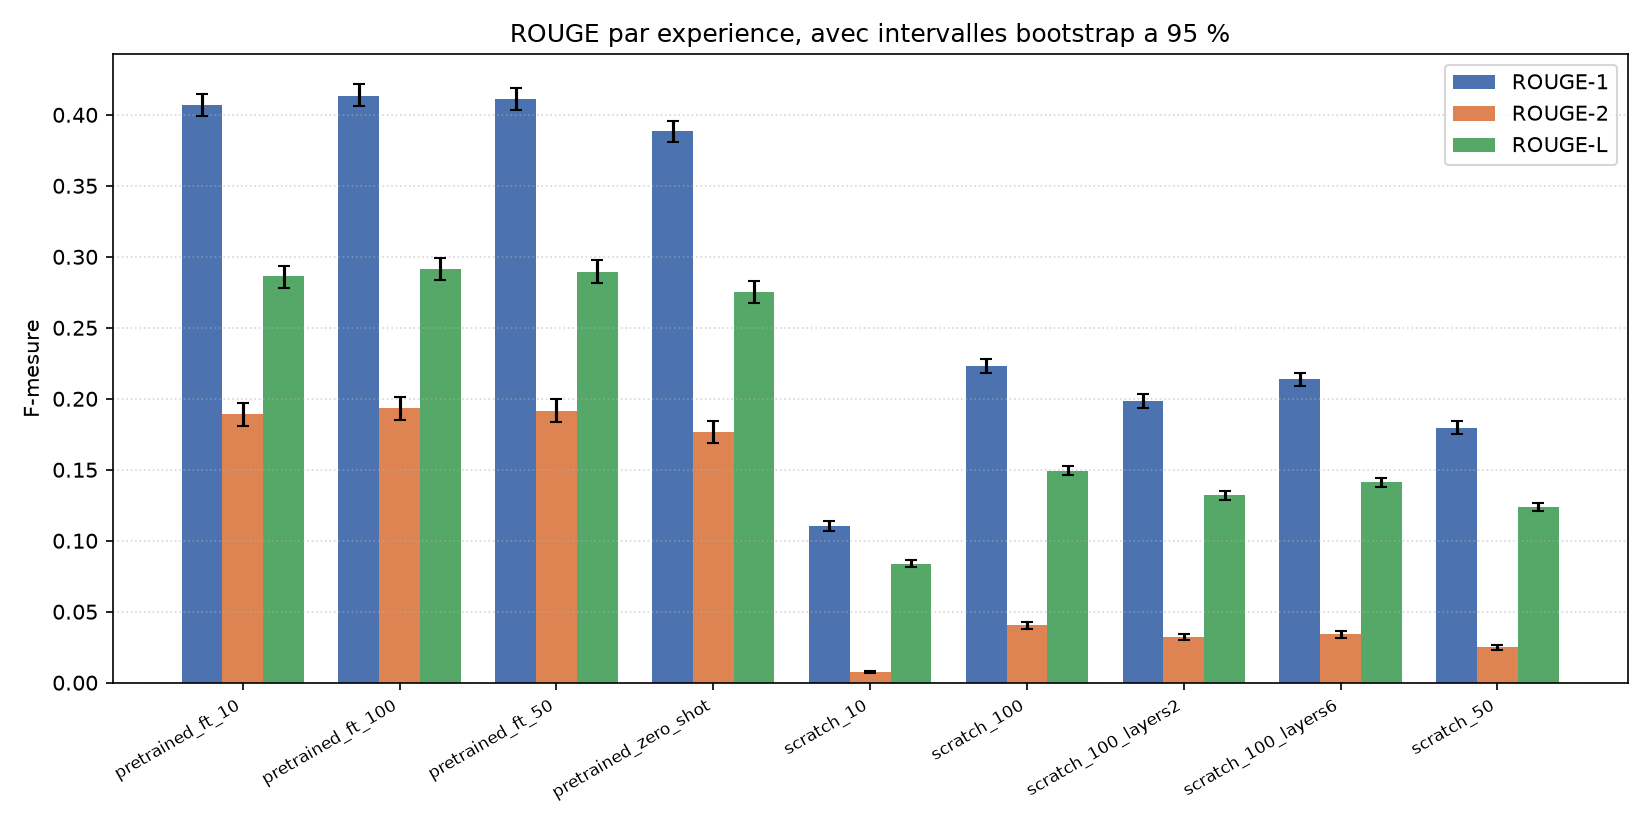
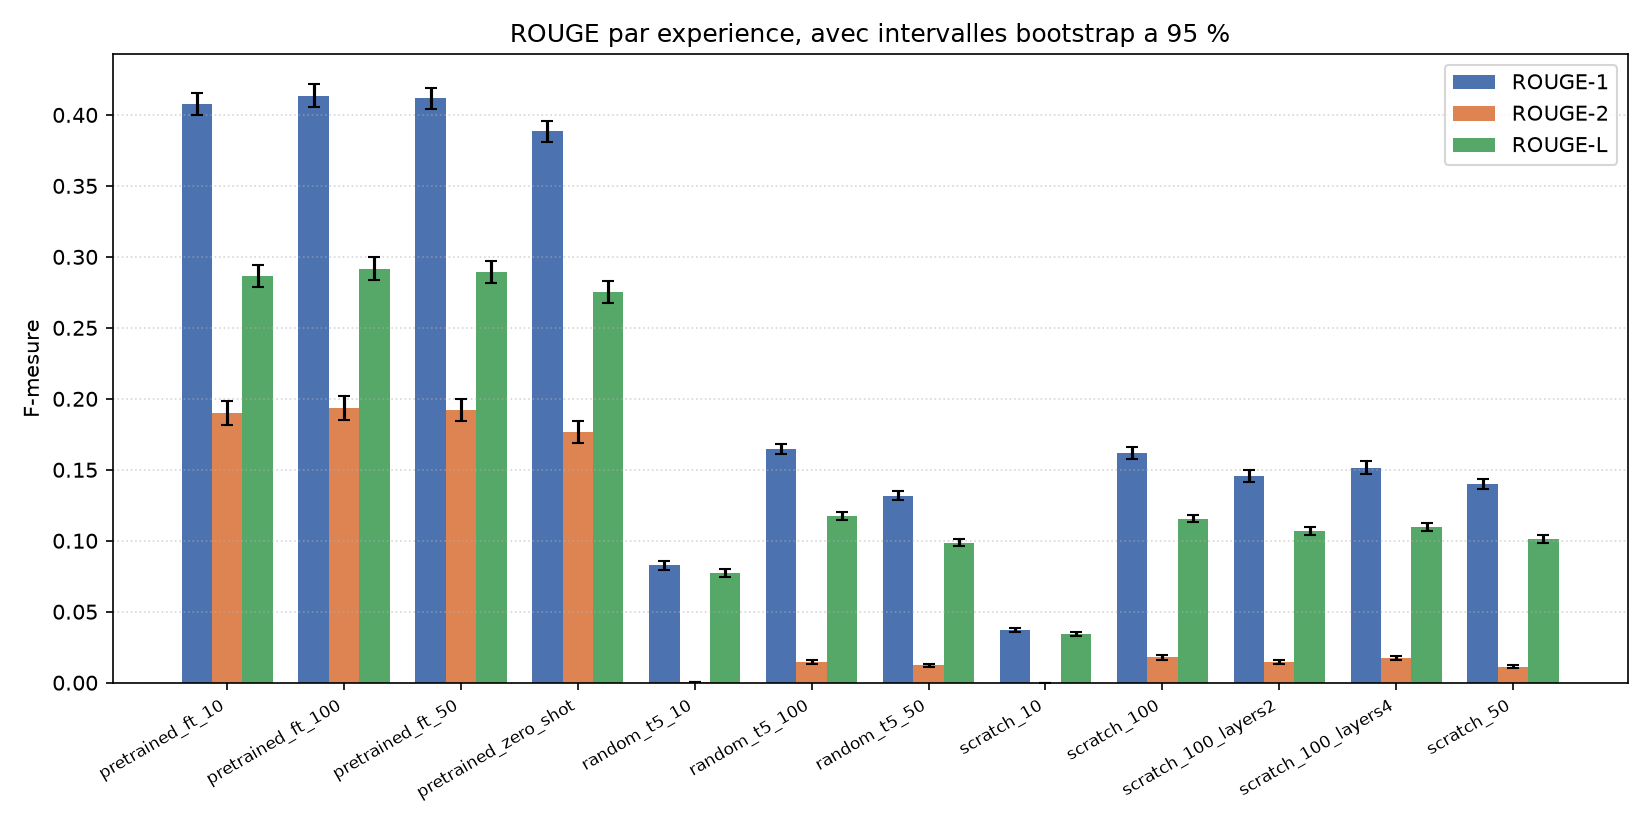
chore(results): enregistrer la campagne complete du 26 aout 2026
Douze runs, tous en statut OK, 151 minutes de calcul cumule sur une RTX
5060 Laptop, empreinte de corpus 00c0ee4e. Les tables generees et les
quatre figures sont refaites depuis ces enregistrements; les runs eux
memes restent hors du depot, comme le prevoit .gitignore.

Resultat: t5-small fine-tune sur 100 pour cent atteint 0,2915 de ROUGE-L,
le zero-shot 0,2751 sans aucun entrainement, et les deux familles parties
de zero plafonnent a 0,1172, intervalles disjoints entre les deux blocs.
A 50 et 100 pour cent, random_t5 et le Transformer ecrit a la main ne se
distinguent pas: l'ecart des fine-tunes tient donc aux poids.

initialisation.md est le tableau nouveau, celui qui compare random_t5 a
pretrained_ft a initialisation pres.

Les enregistrements portent le commit f872aad avec git_dirty a true: ils
ont ete produits par l'arbre de travail que les commits precedents
figent, pas par f872aad lui meme.

diff --git a/reports/_generated/plan.md b/reports/_generated/plan.md
@@ -2,12 +2,15 @@
 
 | Expérience | Variante | Corpus | Études | Statut | ROUGE-L |
 | --- | --- | --- | --- | --- | --- |
-| `pretrained_ft_10` | `pretrained_ft` | 10 % | taille du corpus | `OK` | 0,2861 |
-| `pretrained_ft_50` | `pretrained_ft` | 50 % | taille du corpus | `OK` | 0,2896 |
-| `pretrained_ft_100` | `pretrained_ft` | 100 % | taille du corpus | `OK` | 0,2914 |
-| `scratch_10` | `scratch` | 10 % | taille du corpus | `OK` | 0,0837 |
-| `scratch_50` | `scratch` | 50 % | taille du corpus | `OK` | 0,1234 |
-| `scratch_100` | `scratch` | 100 % | taille du corpus, architecture | `OK` | 0,1492 |
-| `scratch_100_layers2` | `scratch` | 100 % | architecture | `OK` | 0,1320 |
-| `scratch_100_layers6` | `scratch` | 100 % | architecture | `OK` | 0,1413 |
+| `pretrained_ft_10` | `pretrained_ft` | 10 % | taille du corpus | `OK` | 0,2867 |
+| `pretrained_ft_50` | `pretrained_ft` | 50 % | taille du corpus | `OK` | 0,2894 |
+| `pretrained_ft_100` | `pretrained_ft` | 100 % | taille du corpus | `OK` | 0,2915 |
+| `random_t5_10` | `random_t5` | 10 % | taille du corpus | `OK` | 0,0771 |
+| `random_t5_50` | `random_t5` | 50 % | taille du corpus | `OK` | 0,0985 |
+| `random_t5_100` | `random_t5` | 100 % | taille du corpus | `OK` | 0,1172 |
+| `scratch_10` | `scratch` | 10 % | taille du corpus | `OK` | 0,0343 |
+| `scratch_50` | `scratch` | 50 % | taille du corpus | `OK` | 0,1014 |
+| `scratch_100` | `scratch` | 100 % | taille du corpus, architecture | `OK` | 0,1156 |
+| `scratch_100_layers2` | `scratch` | 100 % | architecture | `OK` | 0,1067 |
+| `scratch_100_layers4` | `scratch` | 100 % | architecture | `OK` | 0,1095 |
 | `pretrained_zero_shot` | `pretrained_zero_shot` | sans objet | taille du corpus | `OK` | 0,2751 |

diff --git a/reports/_generated/metrics.md b/reports/_generated/metrics.md
@@ -2,12 +2,15 @@
 
 | Expérience | ROUGE-1 | ROUGE-2 | ROUGE-L | IC 95 % sur ROUGE-L |
 | --- | --- | --- | --- | --- |
-| `pretrained_ft_100` | 0,4135 | 0,1933 | **0,2914** | [0,2838, 0,2994] |
-| `pretrained_ft_50` | 0,4114 | 0,1917 | 0,2896 | [0,2818, 0,2975] |
-| `pretrained_ft_10` | 0,4069 | 0,1890 | 0,2861 | [0,2777, 0,2939] |
+| `pretrained_ft_100` | 0,4135 | 0,1933 | **0,2915** | [0,2836, 0,2997] |
+| `pretrained_ft_50` | 0,4118 | 0,1920 | 0,2894 | [0,2818, 0,2973] |
+| `pretrained_ft_10` | 0,4077 | 0,1901 | 0,2867 | [0,2784, 0,2945] |
 | `pretrained_zero_shot` | 0,3885 | 0,1768 | 0,2751 | [0,2672, 0,2829] |
-| `scratch_100` | 0,2230 | 0,0405 | 0,1492 | [0,1462, 0,1523] |
-| `scratch_100_layers6` | 0,2136 | 0,0341 | 0,1413 | [0,1382, 0,1443] |
-| `scratch_100_layers2` | 0,1982 | 0,0321 | 0,1320 | [0,1287, 0,1351] |
-| `scratch_50` | 0,1797 | 0,0251 | 0,1234 | [0,1206, 0,1263] |
-| `scratch_10` | 0,1102 | 0,0076 | 0,0837 | [0,0812, 0,0861] |
+| `random_t5_100` | 0,1645 | 0,0149 | 0,1172 | [0,1145, 0,1200] |
+| `scratch_100` | 0,1615 | 0,0179 | 0,1156 | [0,1129, 0,1184] |
+| `scratch_100_layers4` | 0,1514 | 0,0176 | 0,1095 | [0,1067, 0,1125] |
+| `scratch_100_layers2` | 0,1458 | 0,0149 | 0,1067 | [0,1040, 0,1094] |
+| `scratch_50` | 0,1399 | 0,0112 | 0,1014 | [0,0987, 0,1042] |
+| `random_t5_50` | 0,1318 | 0,0122 | 0,0985 | [0,0961, 0,1011] |
+| `random_t5_10` | 0,0827 | 0,0005 | 0,0771 | [0,0745, 0,0798] |
+| `scratch_10` | 0,0371 | 0,0000 | 0,0343 | [0,0327, 0,0357] |

diff --git a/reports/_generated/dataset_size.md b/reports/_generated/dataset_size.md
@@ -2,10 +2,13 @@
 
 | Variante | Corpus | Exemples | ROUGE-L | IC 95 % |
 | --- | --- | --- | --- | --- |
-| `pretrained_ft` | 10 % | 2 000 | 0,2861 | [0,2777, 0,2939] |
-| `pretrained_ft` | 50 % | 10 000 | 0,2896 | [0,2818, 0,2975] |
-| `pretrained_ft` | 100 % | 20 000 | 0,2914 | [0,2838, 0,2994] |
-| `scratch` | 10 % | 2 000 | 0,0837 | [0,0812, 0,0861] |
-| `scratch` | 50 % | 10 000 | 0,1234 | [0,1206, 0,1263] |
-| `scratch` | 100 % | 20 000 | 0,1492 | [0,1462, 0,1523] |
+| `pretrained_ft` | 10 % | 2 000 | 0,2867 | [0,2784, 0,2945] |
+| `pretrained_ft` | 50 % | 10 000 | 0,2894 | [0,2818, 0,2973] |
+| `pretrained_ft` | 100 % | 20 000 | 0,2915 | [0,2836, 0,2997] |
+| `random_t5` | 10 % | 2 000 | 0,0771 | [0,0745, 0,0798] |
+| `random_t5` | 50 % | 10 000 | 0,0985 | [0,0961, 0,1011] |
+| `random_t5` | 100 % | 20 000 | 0,1172 | [0,1145, 0,1200] |
+| `scratch` | 10 % | 2 000 | 0,0343 | [0,0327, 0,0357] |
+| `scratch` | 50 % | 10 000 | 0,1014 | [0,0987, 0,1042] |
+| `scratch` | 100 % | 20 000 | 0,1156 | [0,1129, 0,1184] |
 | `pretrained_zero_shot` | sans objet | sans objet | 0,2751 | [0,2672, 0,2829] |

diff --git a/reports/_generated/headline.md b/reports/_generated/headline.md
@@ -2,10 +2,13 @@
 
 | Modèle | Corpus | ROUGE-L | IC 95 % |
 | --- | --- | --- | --- |
-| `t5-small` fine-tuné | 100 % | **0,2914** | [0,2838, 0,2994] |
-| `t5-small` fine-tuné | 50 % | 0,2896 | [0,2818, 0,2975] |
-| `t5-small` fine-tuné | 10 % | 0,2861 | [0,2777, 0,2939] |
+| `t5-small` fine-tuné | 100 % | **0,2915** | [0,2836, 0,2997] |
+| `t5-small` fine-tuné | 50 % | 0,2894 | [0,2818, 0,2973] |
+| `t5-small` fine-tuné | 10 % | 0,2867 | [0,2784, 0,2945] |
 | `t5-small` zero-shot | sans objet | 0,2751 | [0,2672, 0,2829] |
-| from scratch | 100 % | 0,1492 | [0,1462, 0,1523] |
-| from scratch | 50 % | 0,1234 | [0,1206, 0,1263] |
-| from scratch | 10 % | 0,0837 | [0,0812, 0,0861] |
+| `t5-small` aléatoire | 100 % | 0,1172 | [0,1145, 0,1200] |
+| Transformer from scratch | 100 % | 0,1156 | [0,1129, 0,1184] |
+| Transformer from scratch | 50 % | 0,1014 | [0,0987, 0,1042] |
+| `t5-small` aléatoire | 50 % | 0,0985 | [0,0961, 0,1011] |
+| `t5-small` aléatoire | 10 % | 0,0771 | [0,0745, 0,0798] |
+| Transformer from scratch | 10 % | 0,0343 | [0,0327, 0,0357] |

diff --git a/reports/_generated/families.md b/reports/_generated/families.md
@@ -1,7 +1,7 @@
 <!-- Généré par python -m src.experiments.fragments. Ne pas éditer à la main. -->
 
-| Proportion | Exemples | from scratch | `t5-small` fine-tuné | Écart absolu | Écart relatif |
+| Proportion | Exemples | Transformer from scratch | `t5-small` fine-tuné | Écart absolu | Écart relatif |
 | --- | --- | --- | --- | --- | --- |
-| 10 % | 2 000 | 0,0837 | 0,2861 | 0,2025 | +242 % |
-| 50 % | 10 000 | 0,1234 | 0,2896 | 0,1662 | +135 % |
-| 100 % | 20 000 | 0,1492 | 0,2914 | 0,1422 | +95 % |
+| 10 % | 2 000 | 0,0343 | 0,2867 | 0,2524 | +736 % |
+| 50 % | 10 000 | 0,1014 | 0,2894 | 0,1880 | +185 % |
+| 100 % | 20 000 | 0,1156 | 0,2915 | 0,1759 | +152 % |

diff --git a/reports/_generated/architecture.md b/reports/_generated/architecture.md
@@ -2,6 +2,6 @@
 
 | Expérience | Couches | Paramètres | ROUGE-L | IC 95 % | Entraînement |
 | --- | --- | --- | --- | --- | --- |
-| `scratch_100_layers2` | 2 + 2 | 11 905 024 | 0,1320 | [0,1287, 0,1351] | 1 052 s |
-| `scratch_100` | 4 + 4 | 15 591 424 | 0,1492 | [0,1462, 0,1523] | 2 106 s |
-| `scratch_100_layers6` | 6 + 6 | 19 277 824 | 0,1413 | [0,1382, 0,1443] | 2 100 s |
+| `scratch_100_layers2` | 2 + 2 | 31 150 080 | 0,1067 | [0,1040, 0,1094] | 441 s |
+| `scratch_100_layers4` | 4 + 4 | 45 862 912 | 0,1095 | [0,1067, 0,1125] | 722 s |
+| `scratch_100` | 6 + 6 | 60 575 744 | 0,1156 | [0,1129, 0,1184] | 900 s |

diff --git a/reports/_generated/pretrained.md b/reports/_generated/pretrained.md
@@ -3,6 +3,6 @@
 | Expérience | Mode | Corpus | ROUGE-L | IC 95 % |
 | --- | --- | --- | --- | --- |
 | `pretrained_zero_shot` | zero-shot | sans objet | 0,2751 | [0,2672, 0,2829] |
-| `pretrained_ft_10` | fine-tuné | 10 % | 0,2861 | [0,2777, 0,2939] |
-| `pretrained_ft_50` | fine-tuné | 50 % | 0,2896 | [0,2818, 0,2975] |
-| `pretrained_ft_100` | fine-tuné | 100 % | 0,2914 | [0,2838, 0,2994] |
+| `pretrained_ft_10` | fine-tuné | 10 % | 0,2867 | [0,2784, 0,2945] |
+| `pretrained_ft_50` | fine-tuné | 50 % | 0,2894 | [0,2818, 0,2973] |
+| `pretrained_ft_100` | fine-tuné | 100 % | 0,2915 | [0,2836, 0,2997] |

diff --git a/reports/_generated/capitalisation.md b/reports/_generated/capitalisation.md
@@ -4,11 +4,14 @@
 | --- | --- |
 | `pretrained_ft_10` | 0,8 % |
 | `pretrained_ft_50` | 0,5 % |
-| `pretrained_ft_100` | 0,3 % |
-| `scratch_10` | 16,6 % |
-| `scratch_50` | 63,4 % |
-| `scratch_100` | 30,0 % |
-| `scratch_100_layers2` | 50,9 % |
-| `scratch_100_layers6` | 13,1 % |
+| `pretrained_ft_100` | 0,2 % |
+| `random_t5_10` | 0,0 % |
+| `random_t5_50` | 0,0 % |
+| `random_t5_100` | 0,1 % |
+| `scratch_10` | 0,0 % |
+| `scratch_50` | 77,5 % |
+| `scratch_100` | 94,9 % |
+| `scratch_100_layers2` | 96,7 % |
+| `scratch_100_layers4` | 99,7 % |
 | `pretrained_zero_shot` | 71,0 % |
 | Références | 0,0 % |

diff --git a/reports/_generated/campaign.md b/reports/_generated/campaign.md
@@ -2,11 +2,11 @@
 
 | Ce que porte la campagne | Valeur |
 | --- | --- |
-| Expériences déclarées | 9 |
-| Runs complets | 9 |
-| Statuts | `OK` 9 |
-| Calcul cumulé | 163 minutes |
+| Expériences déclarées | 12 |
+| Runs complets | 12 |
+| Statuts | `OK` 12 |
+| Calcul cumulé | 151 minutes |
[1 lines of base64/hex data omitted]
-| Commit des runs | `93ac1d857d444e878b6f49192488800def818fef` |
+| Commit des runs | `f872aad9ba19fcc36cbfb6637e2eb5d11774f605` |
 | Matériel | NVIDIA GeForce RTX 5060 Laptop GPU |
 | Torch | `2.13.0+cu130` |

diff --git a/reports/_generated/initialisation.md b/reports/_generated/initialisation.md
@@ -1,0 +1,7 @@
+<!-- Généré par python -m src.experiments.fragments. Ne pas éditer à la main. -->
+
+| Proportion | Exemples | `t5-small` aléatoire | `t5-small` fine-tuné | Écart absolu | Écart relatif |
+| --- | --- | --- | --- | --- | --- |
+| 10 % | 2 000 | 0,0771 | 0,2867 | 0,2095 | +272 % |
+| 50 % | 10 000 | 0,0985 | 0,2894 | 0,1909 | +194 % |
+| 100 % | 20 000 | 0,1172 | 0,2915 | 0,1744 | +149 % |
